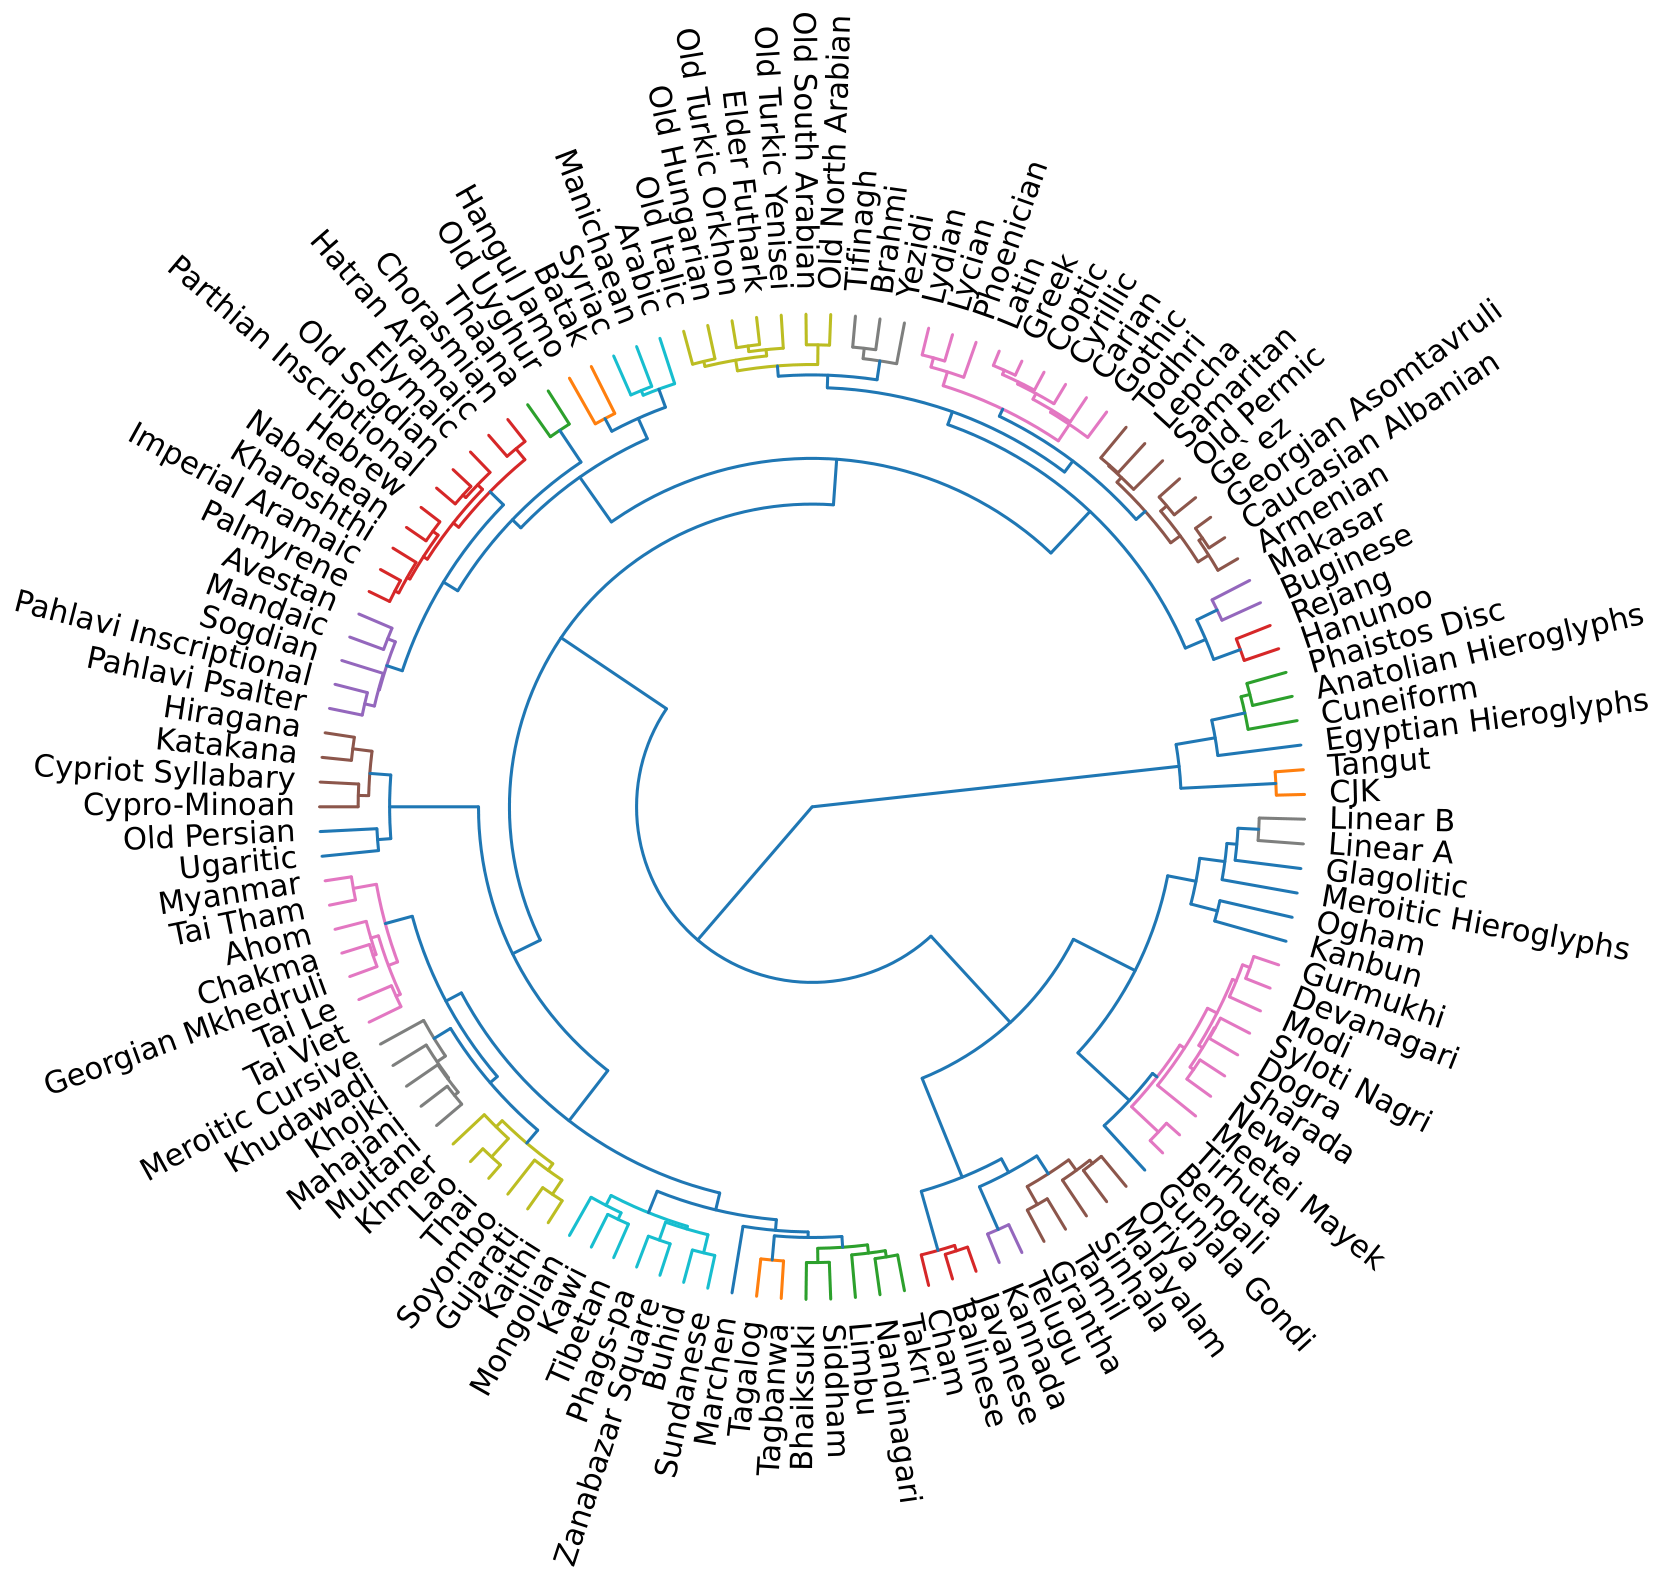
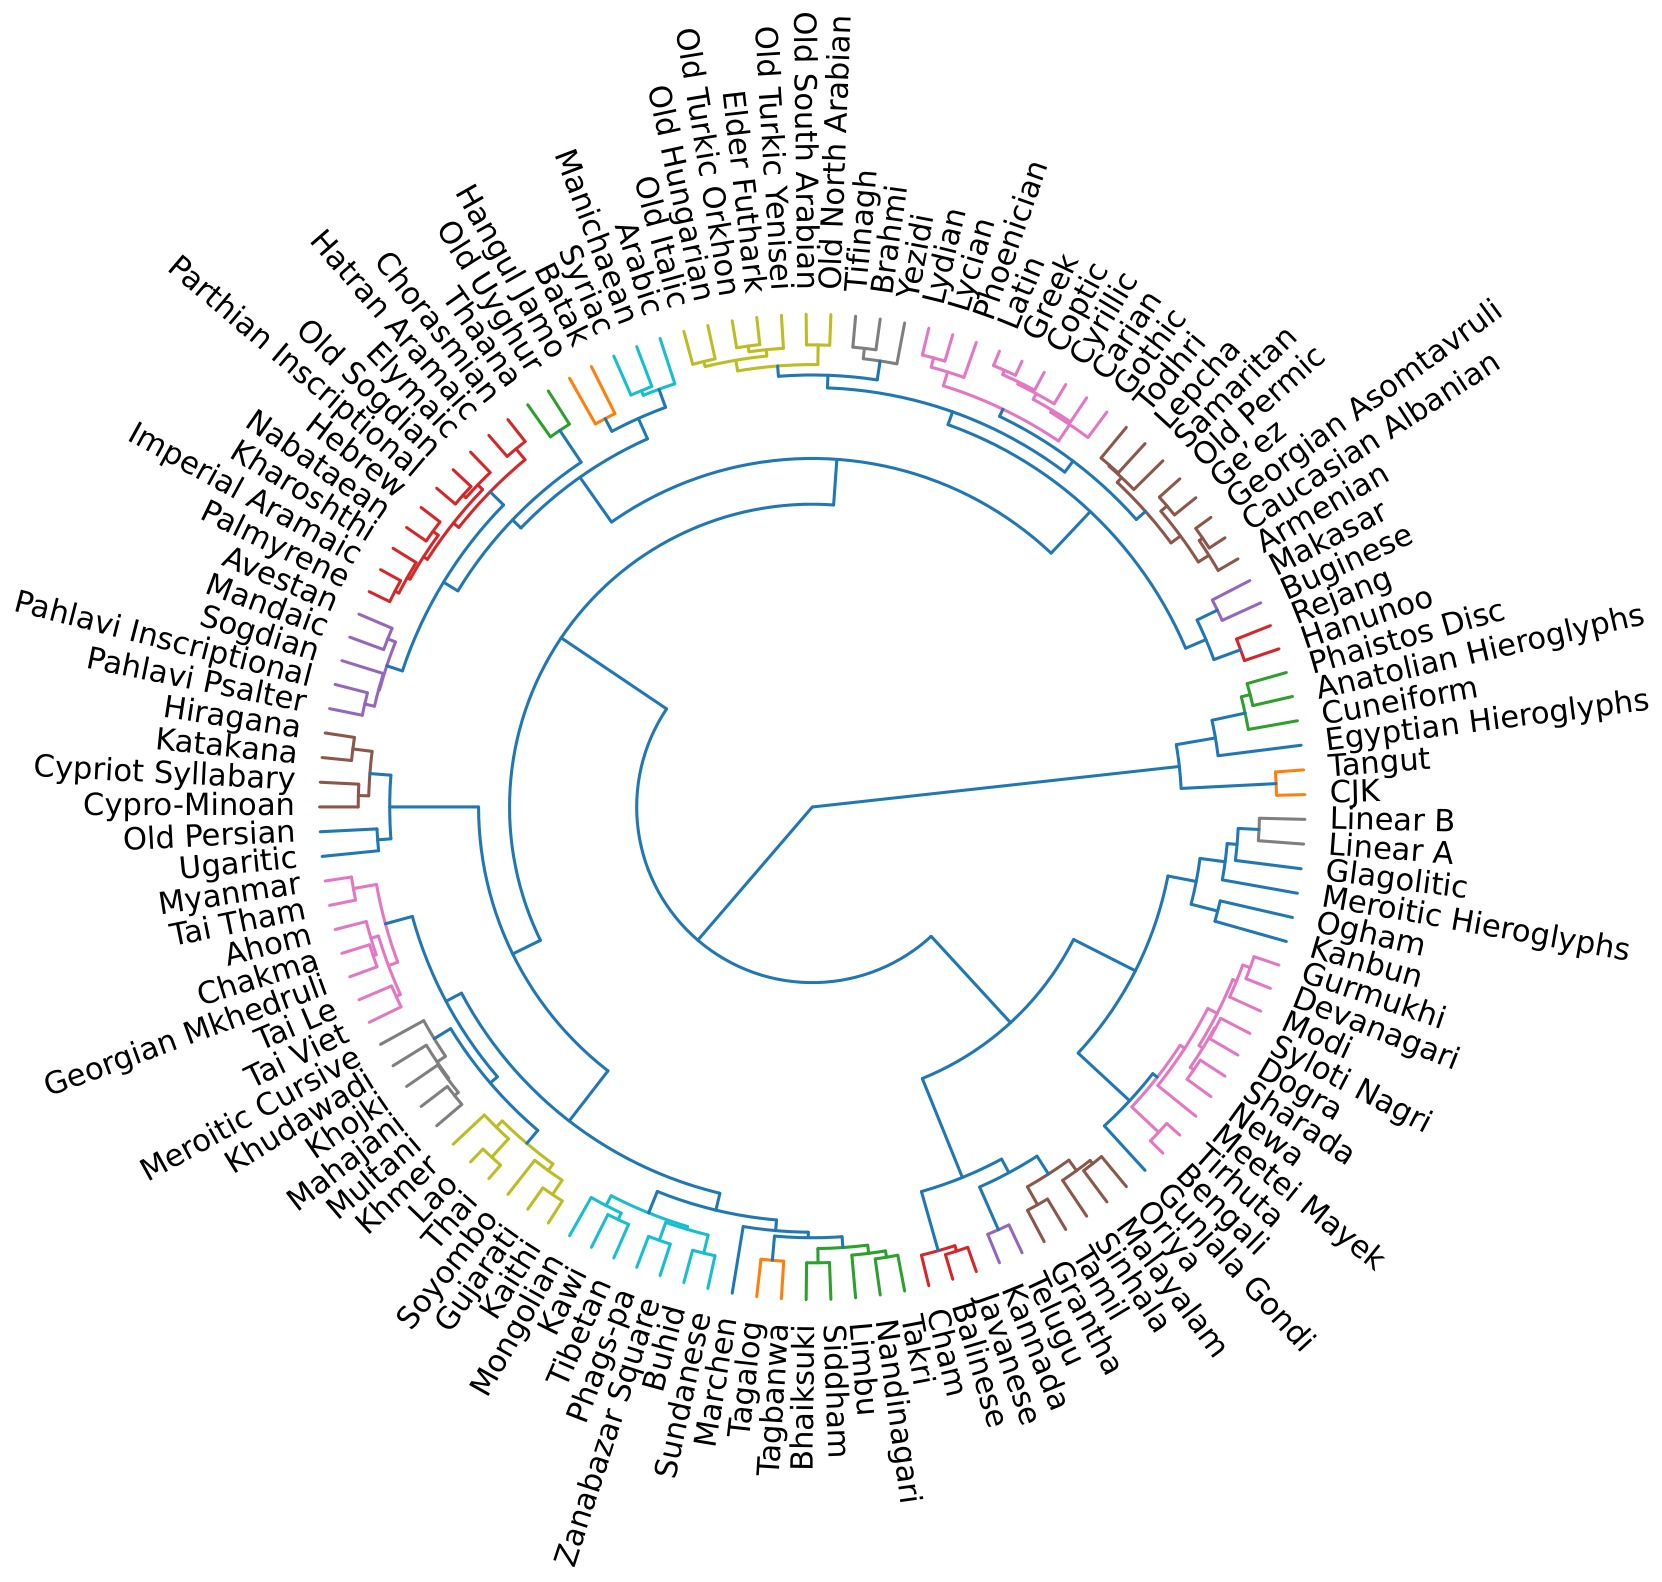
fix: show ge'ez name in figures

diff --git a/src/glyphworld/clustering/clustering.py b/src/glyphworld/clustering/clustering.py
@@ -95,6 +95,11 @@ def ensure_dir(path: Path) -> None:
     path.mkdir(parents=True, exist_ok=True)
 
 
+def display_name(name: str) -> str:
+    """Script name as shown in figures (Ge`ez -> Ge’ez)."""
+    return name.replace("`", "’")
+
+
 def to_jsonable(obj: Any) -> Any:
     if isinstance(obj, Path):
         return str(obj)
@@ -183,6 +188,7 @@ def plot_rectangular_dendrogram(
         orientation="right",
     )
 
+    ax.set_yticklabels([display_name(t.get_text()) for t in ax.get_yticklabels()])
     ax.tick_params(axis="y", which="major", labelsize=10)
     ax.tick_params(axis="x", which="major", labelsize=8)
     ax.set_xlabel("Ward distance")
@@ -615,7 +621,7 @@ def plot_mds_2d(
 
     for _, row in mds_df.iterrows():
         ax.annotate(
-            row["Script"],
+            display_name(row["Script"]),
             xy=(row["MDS1"], row["MDS2"]),
             xytext=(3, 3),
             textcoords="offset points",

diff --git a/src/glyphworld/visualization/radial_tree.py b/src/glyphworld/visualization/radial_tree.py
@@ -127,7 +127,7 @@ def draw_text_labels(ax: Axes, coords: np.ndarray, labels: Sequence[str], fontsi
         ax.text(
             float(x),
             float(y),
-            label,
+            label.replace("`", "’"),
             va="center",
             ha=ha,
             rotation=rot,
